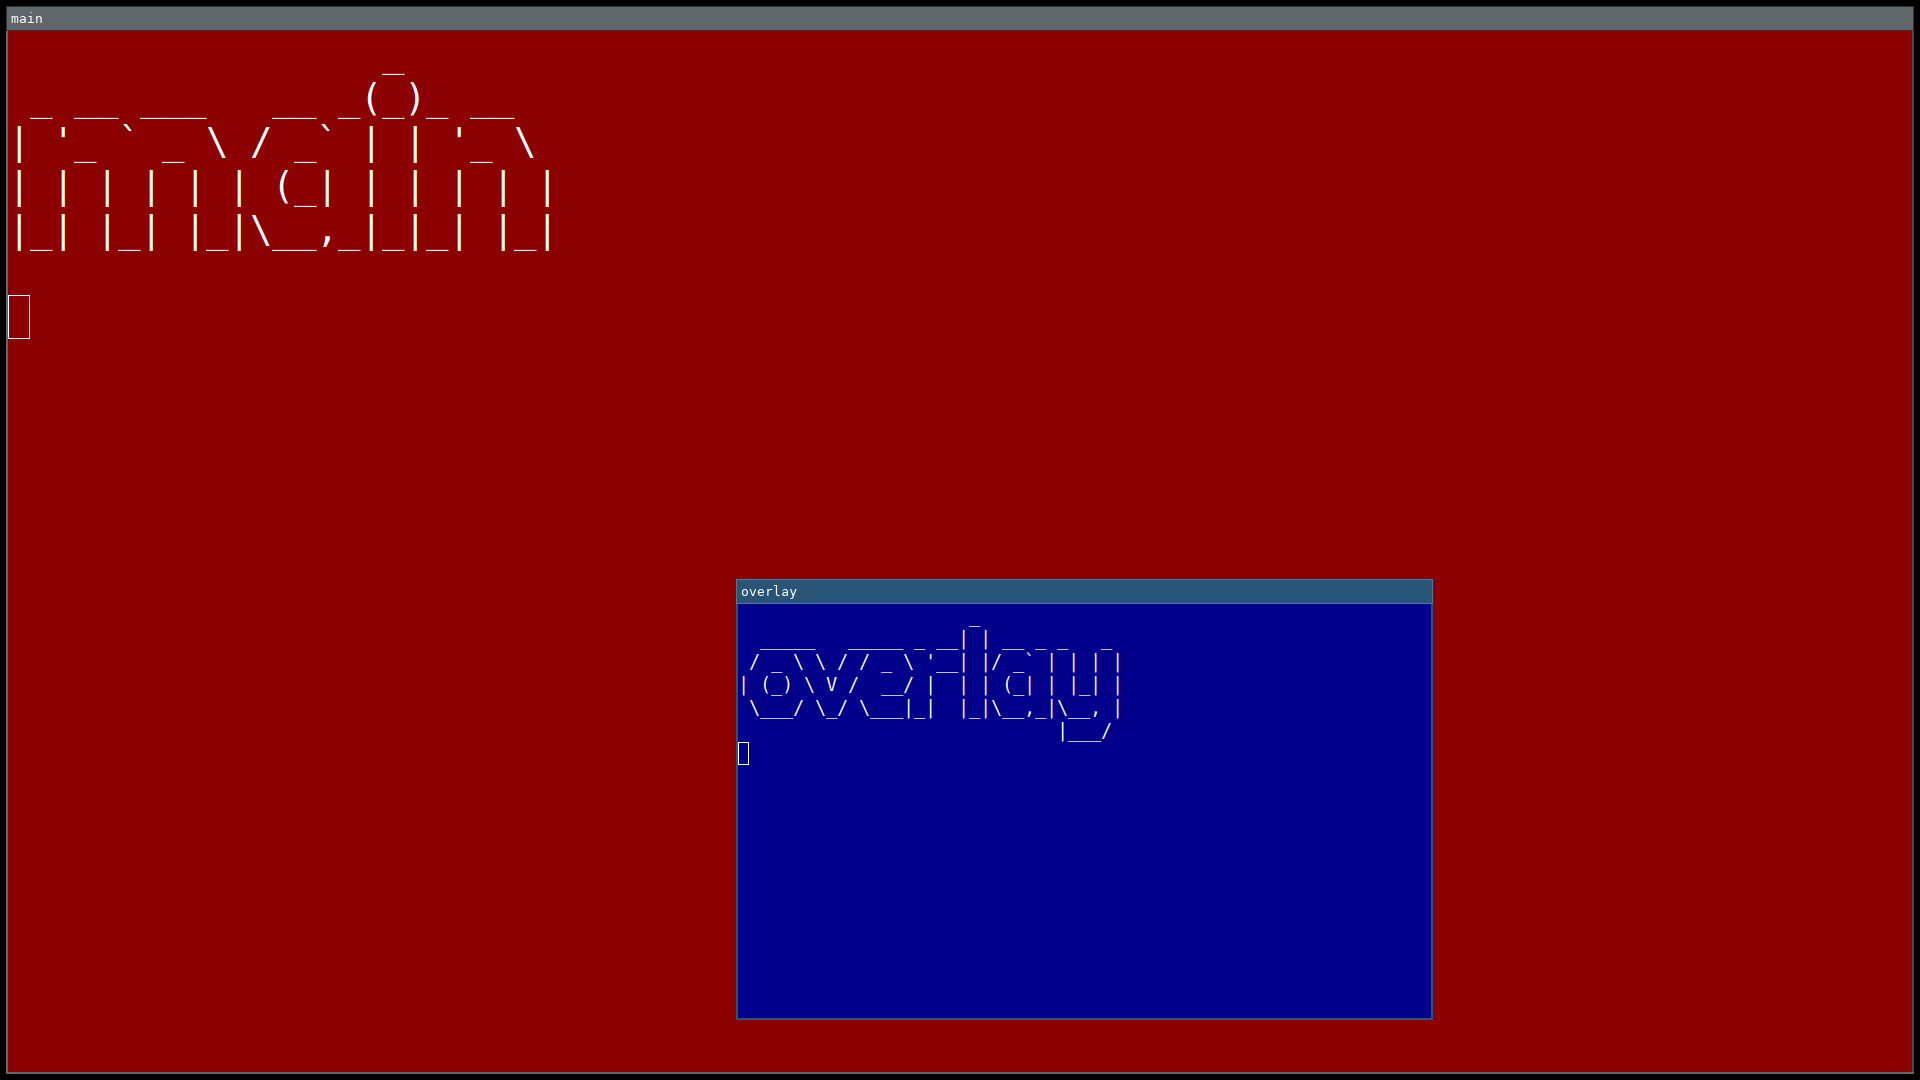
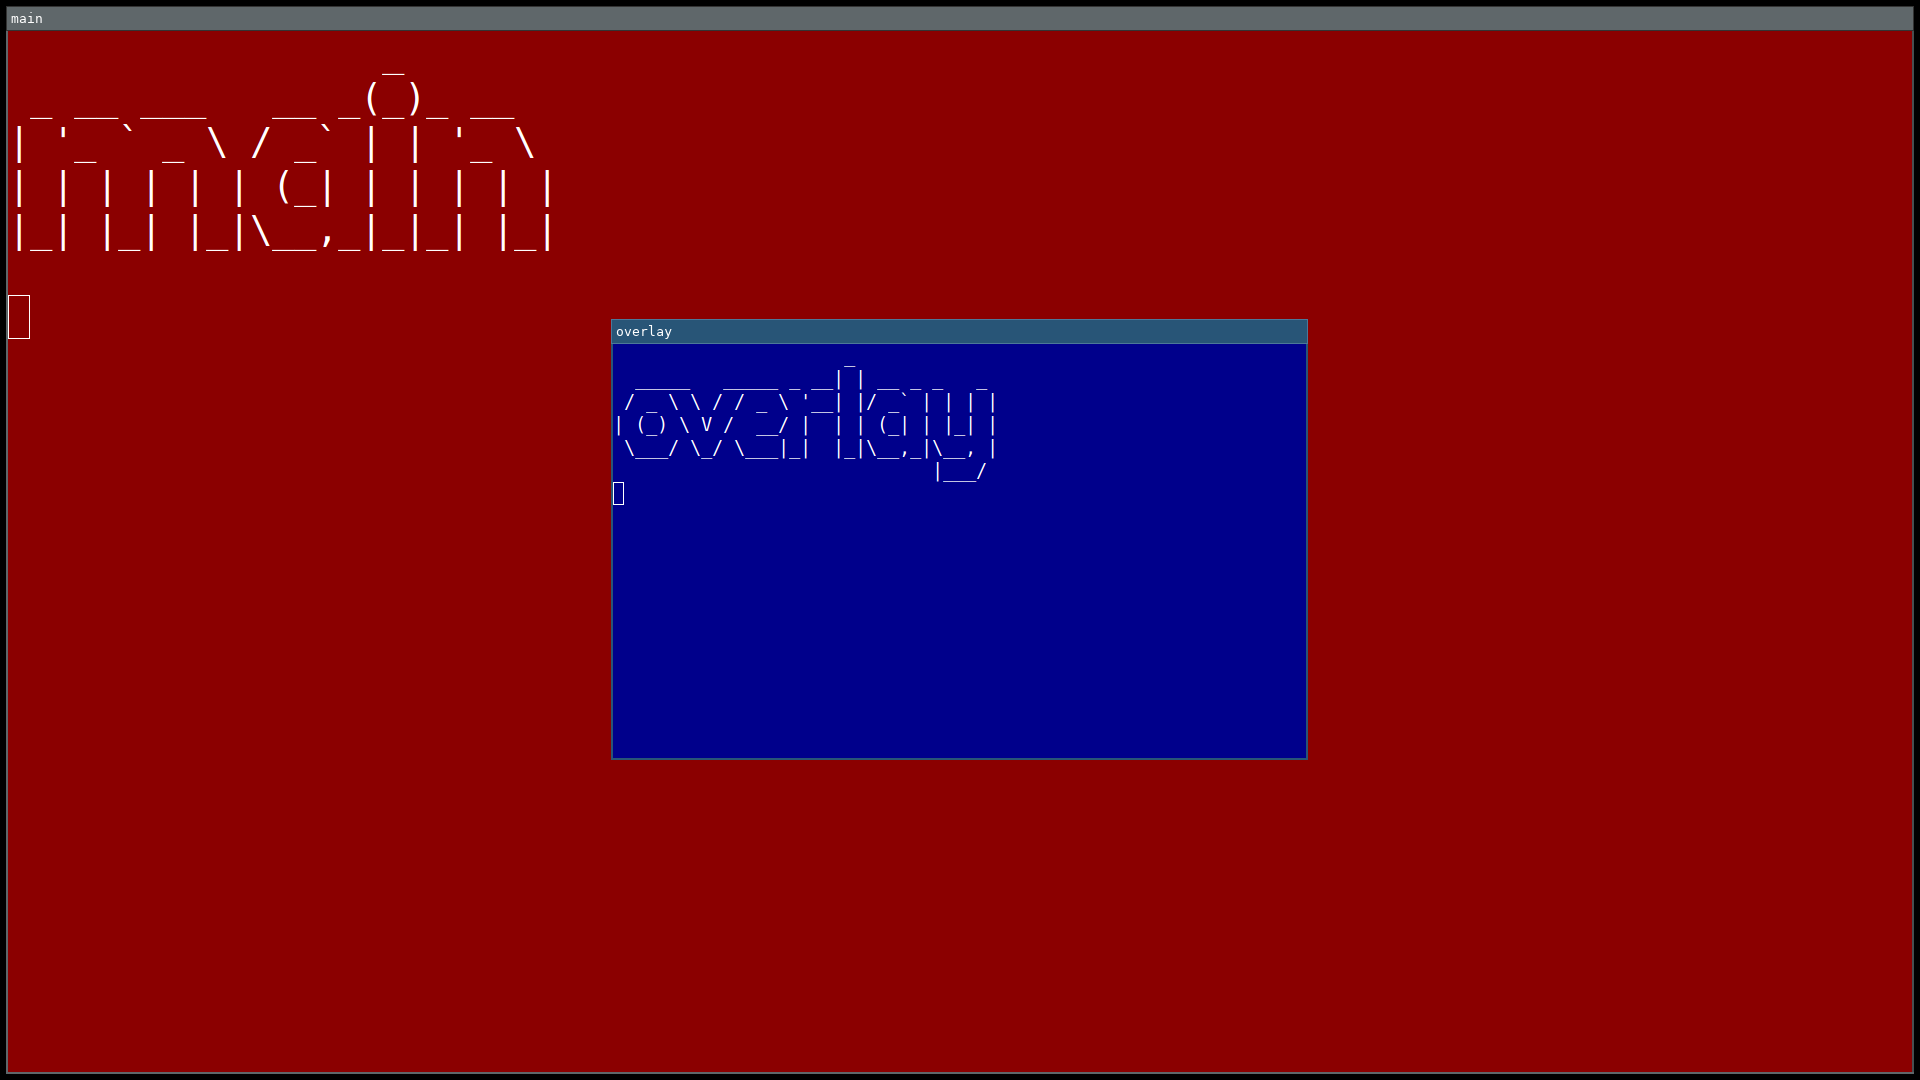
templates/floating-overlay.toml: Center the overlay window
overlay previously landed wherever Sway's own default floating
placement happened to put it — the one shape in this library whose
final geometry wasn't fully reproducible run to run. Adds
position = "center" to make it deterministic, the same way every other
template's geometry already is.

Screenshot regenerated via
scripts/generate-layout-screenshots --only floating-overlay.

Changed region(s): [[0.3125, 0.275, 0.75, 0.9472]]

diff --git a/CHANGELOG.md b/CHANGELOG.md
@@ -21,3 +21,6 @@ and this project adheres to [Semantic Versioning](https://semver.org/spec/v2.0.0
 - `--json` now also applies to error output: a failure prints `{"error": "...", "rolled_back": [...]}`
   instead of a plain-text message, so a `--json` caller doesn't need to also parse plain stderr on
   failure.
+- `floating-overlay` template's overlay window is now explicitly centered (`position = "center"`),
+  so it lands somewhere deterministic every run instead of wherever Sway's own default floating
+  placement happened to put it.
